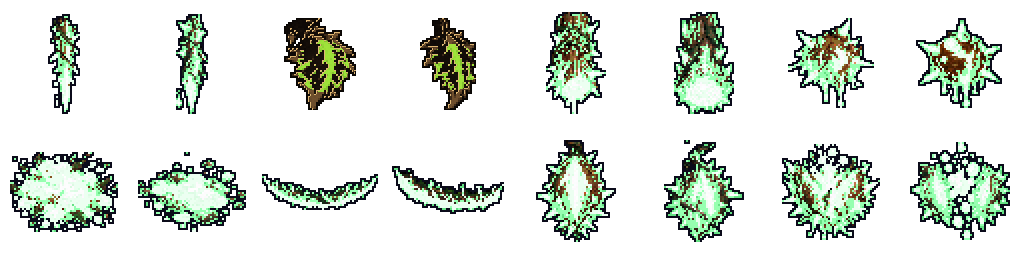
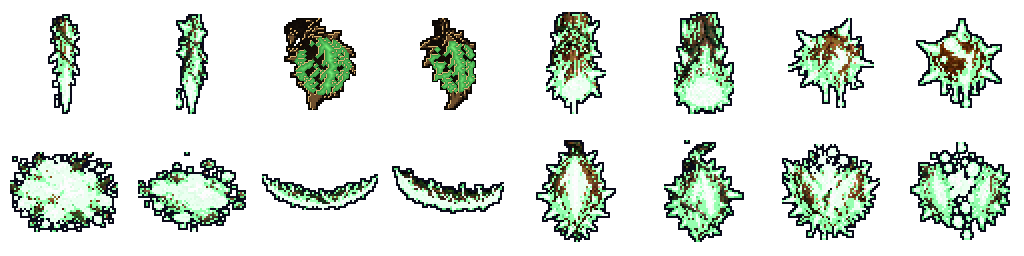
Verdant brown shards: grow the green heart onto the world cue hue so shot cells meet the cue contract
ShotSkinTest needs >= 30 % of every Verdant shot cell in the world cue family (hue 135 +-22). The #234 lime heart (hue ~87) counted 0 %. The heart is now leaf green on hue ~120 and grows inside the keyline to ~37 % of the cell; the brown/black root body is unchanged. Bloom Queen attack-1 shard regenerated the same way.

Changed region(s): [[0.2812, 0.1562, 0.3438, 0.375], [0.4062, 0.1562, 0.4688, 0.375]]

diff --git a/Pause/Assets/Art/Attacks/Verdant~/black_shots.py b/Pause/Assets/Art/Attacks/Verdant~/black_shots.py
@@ -6,7 +6,8 @@ from PIL import Image
 # brown root / bark ramp (t = luminance relative to the cell's 98th percentile): near-black brown -> bark -> tan -> a small dry-ochre accent
 STOPS=[(0.0,(12,8,5)),(.45,(28,19,11)),(.72,(52,36,21)),(.90,(84,59,34)),(1.0,(112,80,46))]
 KEY=(9,6,4)
-LIME=(160,228,58); LIME_DARK=(98,152,34)   # the glowing heart of the brown shards (the game's Verdant leaf lime)
+LIME=(120,240,120); LIME_DARK=(44,136,58)   # the glowing heart of the brown shards: leaf green on the Verdant cue hue (135 +-22 deg; ShotSkinTest.CueOrWhite needs >= 30 % of a cell in it)
+HEART_MIN=.33   # the heart grows (inside the keyline) until it covers this share of the cell's opaque pixels
 HEART_T=.78; HEART_SHARE=.6
 OCHRE=(222,182,116)   # a dry-ochre catch-light, only on the lit (upper-left) edge of the bright bark
 # (file, cell w, cell h, columns, cell indices to convert)
@@ -40,7 +41,18 @@ def conv(cell, variant):
         keep=d<=np.sort(d)[int(len(d)*HEART_SHARE)-1]
         K=np.zeros_like(S); K[ys[keep],xs[keep]]=True
         u=np.clip((t-HEART_T)/(1-HEART_T),0,1)[...,None]
-        body[K]=(np.array(LIME_DARK)*(1-u)+np.array(LIME)*u)[K]
+        # grow the heart over the interior until it is HEART_MIN of the opaque area (the test's cue floor is 30 %)
+        need=int(HEART_MIN*(a>24).sum())+1; g=K.copy(); inn2=inte&~lit
+        while g.sum()<need:
+            p=np.pad(g,1); n=(p[1:-1,1:-1]|p[:-2,1:-1]|p[2:,1:-1]|p[1:-1,:-2]|p[1:-1,2:])&inn2
+            if (n==g).all(): break
+            g=n
+        # shade by distance from the heart's edge: bright core, darker green rim
+        dist=np.zeros(g.shape); e=g.copy()
+        while e.any():
+            dist+=e; p=np.pad(e,1); e=p[1:-1,1:-1]&p[:-2,1:-1]&p[2:,1:-1]&p[1:-1,:-2]&p[1:-1,2:]
+        uu=np.clip(dist/max(dist.max(),1),0,1)[...,None]
+        body[g]=(np.array(LIME_DARK)*(1-uu)+np.array(LIME)*uu)[g]
     out=cell.copy(); out[...,:3]=np.where(m[...,None],body,np.array(STOPS[0][1],float)).round().astype('uint8'); return out
 def inner(cell):
     a=cell[...,3]; m=a>=128
